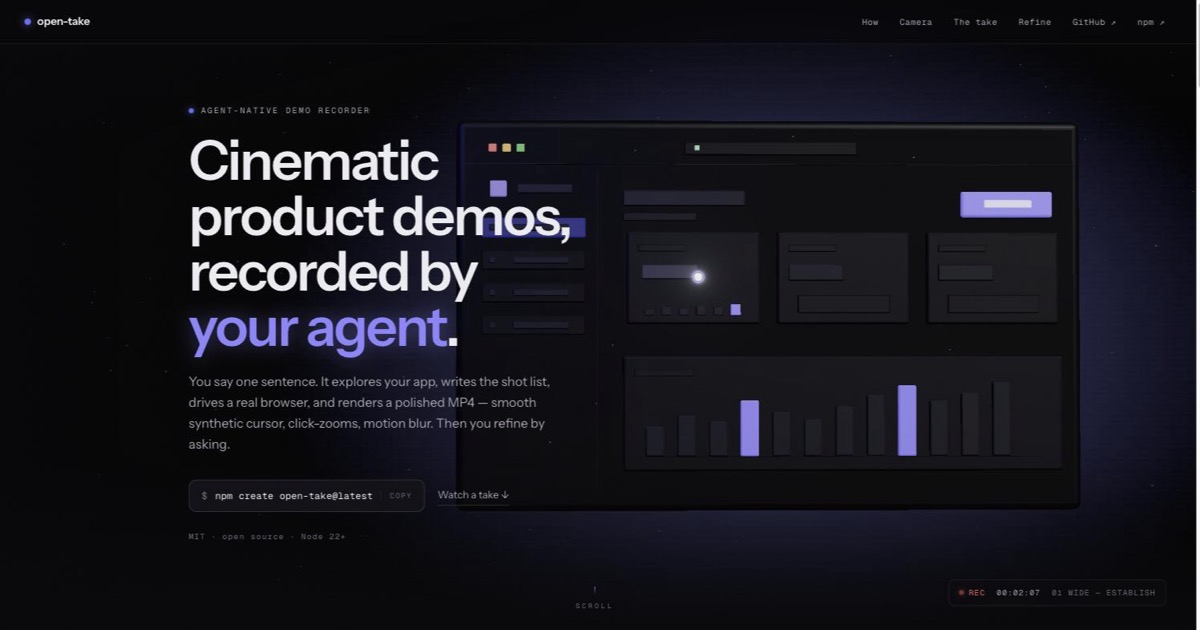
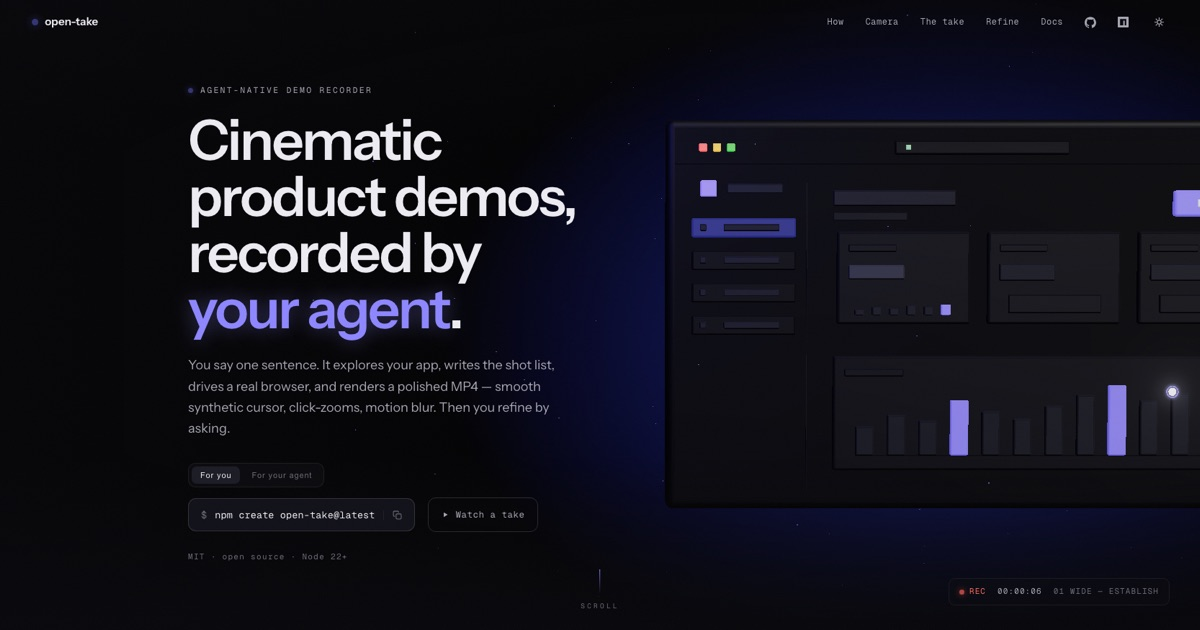
fix(web): the hero's establish shot cut its own bezel through the headline
A first-time reader took the landing page for a broken layout. At 1440×760 the
miniature's left bezel landed at 528px and the headline ran to 686px, so a hard
vertical edge — with the sidebar's glowing selected row directly behind it —
sliced through `product demos,`. The copy has no plate, so that edge reads as a
layout bug rather than a backdrop. Punches were never the problem, and the
report said as much: once the lens is in, the text sits over one flat surface.

Dark hid it better than light by accident, not design. The left veil decays to
0.18 by 38% and the bezel landed at 36%, so the protection ran out exactly
where it was needed; light has no left wash at all, because any semi-alpha
white over the dark window reads as fog and it was deliberately removed.

`frameX` was a guess (-0.95 / -0.45 / 0 by aspect band). It now derives from
the copy column: sit the window's left edge just right of `.hero-copy` plus a
46px gutter — wide enough to outlast the ±0.16 world of pointer parallax, which
would otherwise walk the bezel back into the text on mouse move. Where the
viewport cannot hold both, clear as much as fits. At most a fifth of the window
bleeds off the right, which reads as intentional; the old framing missed the
right edge by 38px and read as a near-miss.

`wideZ` is untouched, so every punch lands exactly where it was tuned to. Only
the establish pose moves, and only laterally.

After: 1180×860, 1440×760, 1512×900 and 2560×1400 all clear in dark, 1440×682
[…]

diff --git a/apps/web/src/fx/scene.ts b/apps/web/src/fx/scene.ts
@@ -40,6 +40,28 @@ export interface StageApi {
 const FOV = 30;
 const TAN_HALF = Math.tan((FOV * Math.PI) / 360);
 
+const APP_HALF_W = 1.75; // the window body is 3.4 wide; a hair of margin on top
+const COPY_GUTTER = 46; // px of clean background — wide enough to outlast parallax
+
+// How far left to sit the camera so the miniature clears the hero copy.
+//
+// The establish shot used to run the window's left bezel — a hard vertical
+// edge, with the selected sidebar row glowing right behind it — straight
+// through the headline. The copy has no plate, so that edge reads as a broken
+// layout rather than a backdrop. Punches were never the problem: once the lens
+// is in, the text sits over one flat surface.
+//
+// So derive the bias from the copy column instead of guessing a constant: put
+// the window's left edge just right of it. Where the viewport is too narrow to
+// hold both, clear as much as fits rather than shoving the window off-frame.
+function frameBias(aspect: number, vw: number, wideZ: number, copyRight: number): number {
+  if (aspect < 1.05) return 0; // stacked: the copy sits over a dimmed stage
+  const halfW = wideZ * TAN_HALF * aspect; // half the visible width at z = 0
+  const f = Math.min(0.62, (copyRight + COPY_GUTTER) / vw); // wanted left edge, 0..1
+  const clear = -APP_HALF_W + halfW * (1 - 2 * f);
+  return Math.max(clear, APP_HALF_W - 1.44 * halfW); // ≤ a fifth bleeds off right
+}
+
 // Neutral white radial, tinted via material.color — the iris glow behind the
 // window in the dark theme, and (in black) the soft ground shadow in light.
 function radialTexture(): CanvasTexture {
@@ -168,8 +190,9 @@ export function initStage(canvas: HTMLCanvasElement, hooks: StageHooks): StageAp
     const aspect = w / h;
     camera.aspect = aspect;
     camera.updateProjectionMatrix();
-    rig.frameX = aspect >= 1.45 ? -0.95 : aspect >= 1.05 ? -0.45 : 0;
     rig.wideZ = Math.max(6.4, 3.95 / (2 * TAN_HALF * aspect));
+    const copy = document.querySelector(".hero-copy");
+    rig.frameX = frameBias(aspect, w, rig.wideZ, copy ? copy.getBoundingClientRect().right : 0);
   };
   resize();
   rig.reset();

diff --git a/apps/web/src/fx/rig.ts b/apps/web/src/fx/rig.ts
@@ -7,8 +7,9 @@ export const FOV = 30;
 const TAN_HALF = Math.tan((FOV * Math.PI) / 360);
 
 // The camera rig: one spring pair (position + look) chasing the current pose.
-// `frameX` frames the miniature right-of-center under the hero copy; punches
-// mostly recentre on their target so the zoomed subject owns the frame.
+// `frameX` frames the miniature right-of-center, clear of the hero copy (see
+// `frameBias`); punches mostly recentre on their target so the zoomed subject
+// owns the frame.
 export class Rig {
   frameX = 0;
   wideZ = 6.4;
